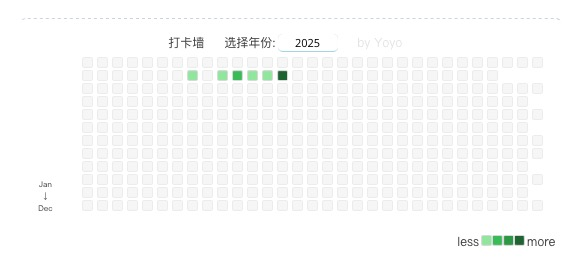
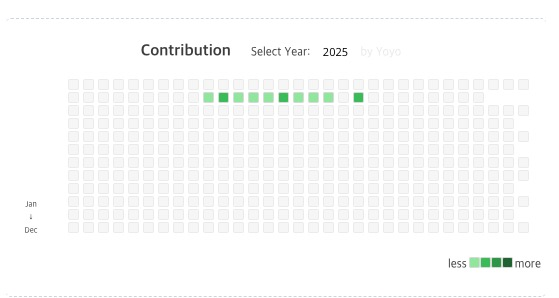
test1

diff --git a/style.css b/style.css
@@ -1,4 +1,21 @@
+html {
+  font-size: 1px ; /* 将根元素的字体大小设置为 1px */
+}
 
+@media (max-width: 650px) {
+  html {
+    font-size: 0.5px;  /* 当视口宽度小于 650px 时，字体大小为 0.5px */
+  }
+}
+@media (min-width: 651px) and (max-width: 1566px)  {
+  html {
+    font-size: 0.7px;  
+  }
+}
+.c_title{
+  font-size: 16rem;
+  font-weight: bold;
+}
   .together{
     display: block;
     font-family: "微软雅黑",  sans-serif !important;
@@ -6,26 +23,27 @@
     text-align: center;
     box-sizing: border-box;/*盒模型*/
     height: max-content;
-    padding:8px 0px;
-    border-top:0.1px dashed #d1d9e0;
-    border-bottom:0.1px dashed #d1d9e0;
-    border-radius: 5px;
-    margin: 10px auto;
-    padding-left:10px;
+    padding:8rem 0rem;
+    border-top:0.1rem dashed #d1d9e0;
+    border-bottom:0.1rem dashed #d1d9e0;
+    border-radius: 5rem;
+    margin: 10rem auto;
+    padding-left:10rem;
+    background-color:  rgba(255, 255, 255, 0.9);
   }
   .calendar {
     display: inline-block;
     margin:auto;
     height: max-content;
-    width: 500px;
+    width: 500rem;
   }
   
   .grid-item {
-    width: 11px;
-    height: 11px;
+    width: 11rem;
+    height: 11rem;
     background-color: #fff;
-    border:1px solid #ddd;
-    border-radius: 2px;
+    border:1rem solid #ddd;
+    border-radius: 2rem;
     cursor: pointer;
   }
   
@@ -43,64 +61,74 @@
   }
   /* 月份格子容器样式 */
 .month-container {
-  width:500px;
+  width:500rem;
   display: grid;
-  grid-template-columns: repeat(31, 11px); /* 每周7天 */
-  gap: 4px;
-  margin: 2px;
+  grid-template-columns: repeat(31, 11rem); /* 每周7天 */
+  gap: 4rem;
+  margin: 2rem;
   justify-content: center;
 }
 #desc_blocks{
   width: max-content;
   display: inline-block;
-  padding: 1px;
-  margin:0px 1px;
+  padding: 1rem;
+  margin:0rem 1rem;
 }
 .desc_blocks_item{
   display: inline-block;
-  width: 11px;
-  height: 11px;
-  border:1px solid #ddd;
-  border-radius: 2px;
+  width: 11rem;
+  height: 11rem;
+  border:1rem solid #ddd;
+  border-radius: 2rem;
 }
 .month-header {
-  width: 30px;
-  font-size: 8px;
+  width: 30rem;
+  font-size: 8rem;
 }
 .month_float{
-  width:30px;
+  width:30rem;
   display: inline-block;
-  margin-bottom: 1px;
+  margin-bottom: 1rem;
 }
 
 .tooltip{
-  width:80px;
-  border: 1px solid #ccc;
+  width:80rem;
+  border: 1rem solid #ccc;
   background-color: #060d2a;
-  padding: 2px 5px;
-  margin:1px;
-  border-radius: 5px;
+  padding: 2rem 5rem;
+  margin:1rem;
+  border-radius: 5rem;
   display: none;
   color:#fff;
-  font-size:10px;
+  font-size:10rem;
 }
 label,span,.cpright,.lessmore{
-  font-size: 12px;
+  font-size: 12rem;
 }
+
 .lessmore{
   text-align: right;
-  margin-right: 5px;
+  margin-right: 5rem;
 }
 span{
-  margin-right: 20px;
+  margin-right: 20rem;
+}
+label{
+  /* margin-left: 60rem; */
 }
 select{
-  text-align: center; /* 尝试居中文本 */
+  /* text-align: center;  */
   text-align-last: center; /* 确保选中的项居中 */
-  width: 60px;
-  border-bottom: 1px solid lightblue;
-  font-size: 11px;
-  margin: 0px 20px 0px 3px;
+  width: 50rem;
+  height:20rem;
+  line-height: 20rem;
+  /* border-left: 1rem solid lightblue; */
+  /* border-right: 1rem solid lightblue; */
+  font-size: 11rem;
+  margin: 15rem 5rem 5rem 5rem;
+  border-radius: 10rem;
+  background-color: transparent !important;
+  
 }
 option{
 
@@ -111,8 +139,8 @@ option{
 }
 .fireworks{
   position:absolute;
-  width: 2px;
-  height: 2px;
+  width: 2rem;
+  height: 2rem;
   border-radius: 50%;
   animation: explode 0.5s ease-out forwards;
   opacity: 0.5;

diff --git a/func.js b/func.js
@@ -14,14 +14,14 @@ function get_elements(){
 	title=document.getElementsByClassName('c_title')[0];
 	if (title===undefined){//==会进行类型转换 ===不会
 	  title=document.createElement('span');
-	  title.textContent='打卡墙';
+	  title.textContent='Contribution';
 	  title.classList.add('c_title');
 	  together.appendChild(title);
 	}
 	label=document.getElementsByClassName('c_label')[0];
 	if(label===undefined){
 	  label=document.createElement('label');
-	  label.textContent='选择年份:';
+	  label.textContent='Select Year:';
 	  label.classList.add('c_label')
 	  together.appendChild(label);
 	}

diff --git a/README.md b/README.md
@@ -5,7 +5,7 @@
 ```bash
 npm install hexo-everyday-calendar
 ```
-2. If it doesn't work, add it to plugins, the directory of which is the same level as source (a directory)
+2. Add it to plugins, the directory of which is the same level as source (a directory)
 3. Make sure you have a div with classname 'site-body' in your theme. The calendar module will automatically be placed there
 4. Custom place: In the place you want to put, set the classname of the div block to 'site-body', and you can put it in
 
@@ -14,16 +14,22 @@ npm install hexo-everyday-calendar
 ```bash
 npm install hexo-everyday-calendar
 ```
-2. 如果没有生效，同时放入与source同级的目录plugins下
+2. 同时放入与source同级的目录plugins下
 3. 确保你的theme主题中有classname为'site-body'的div块，日历模块会自动放入这里
 4. 自定义放入位置：在你想要放入的位置中，设置div块的classname为'site-body'，即可放入
 
 # 更新 Update
 
-## 2.14
+- 2.14
 
 1. 修复select居中情况
 2. 增加打卡墙块根据提交数量形成颜色变化功能
+
+- 2.21
+
+1. 增加响应式布局，适配移动端
+2. 修复select组件垂直不居中的问题
+3. 国际化
 
 # 图例 Example
 ![image-20250211172548584](./example.jpg)